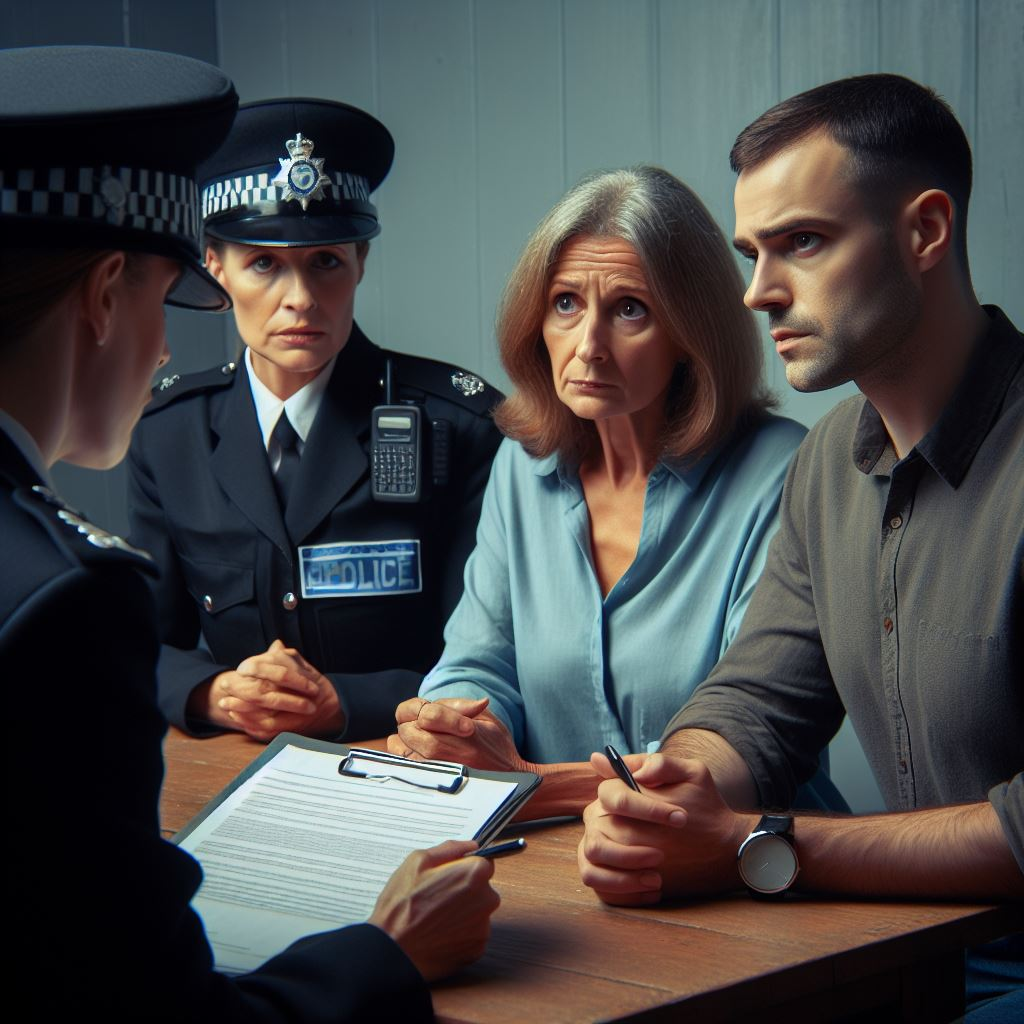
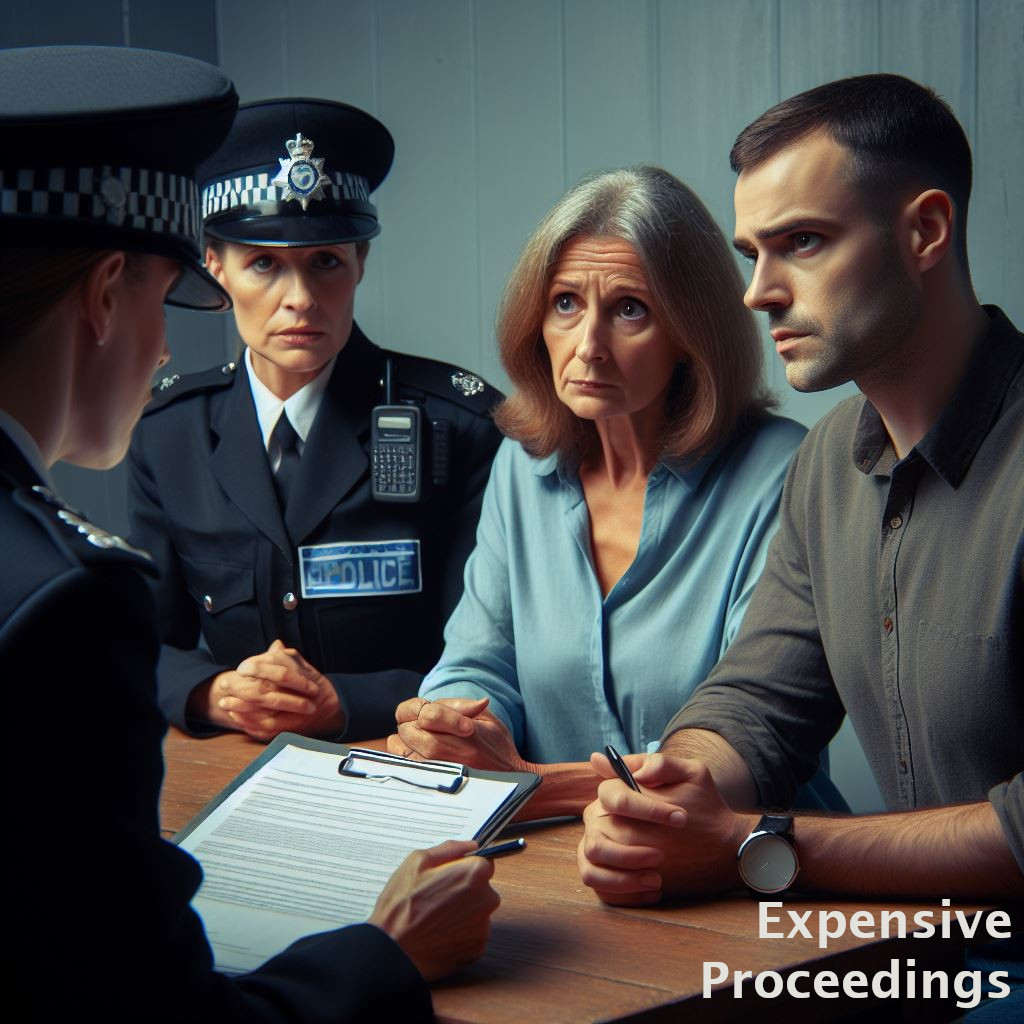
Add Expensive Proceedings and Meeting on a train

Changed region(s): [[0.6875, 0.875, 1.0, 1.0]]

diff --git a/index.html b/index.html
@@ -13,7 +13,7 @@
 <body>
 
     <div class="announcement-banner">
-        Two new plays were added on Saturday 27th April.
+        Two new plays were added on Saturday 11th May.
     </div>
         
 <header>
@@ -28,6 +28,22 @@
 </header>
 
 <main>
+    <section class="audio-play">
+        <img src="images/Expensive Proceedings.jpg" alt="Title Image for Expensive Proceedings">
+        <audio controls class="plausible-event-name=Expensive+Proceedings">
+            <source src="audio/Expensive Proceeedings.mp3" type="audio/mpeg">
+            Your browser does not support the audio element.
+        </audio>
+    </section>
+    
+    <section class="audio-play">
+        <img src="images/Meeting on a train.jpg" alt="Title Image for Meeting on a Train">
+        <audio controls class="plausible-event-name=Meeting+on+a+train">
+            <source src="audio/Meeting On A Train.mp3" type="audio/mpeg">
+            Your browser does not support the audio element.
+        </audio>
+    </section>
+
     <section class="audio-play">
         <img src="images/Banksy Challenged.jpg" alt="Title Image for Banksy Challenged">
         <audio controls class="plausible-event-name=Banksy+Challenged">
